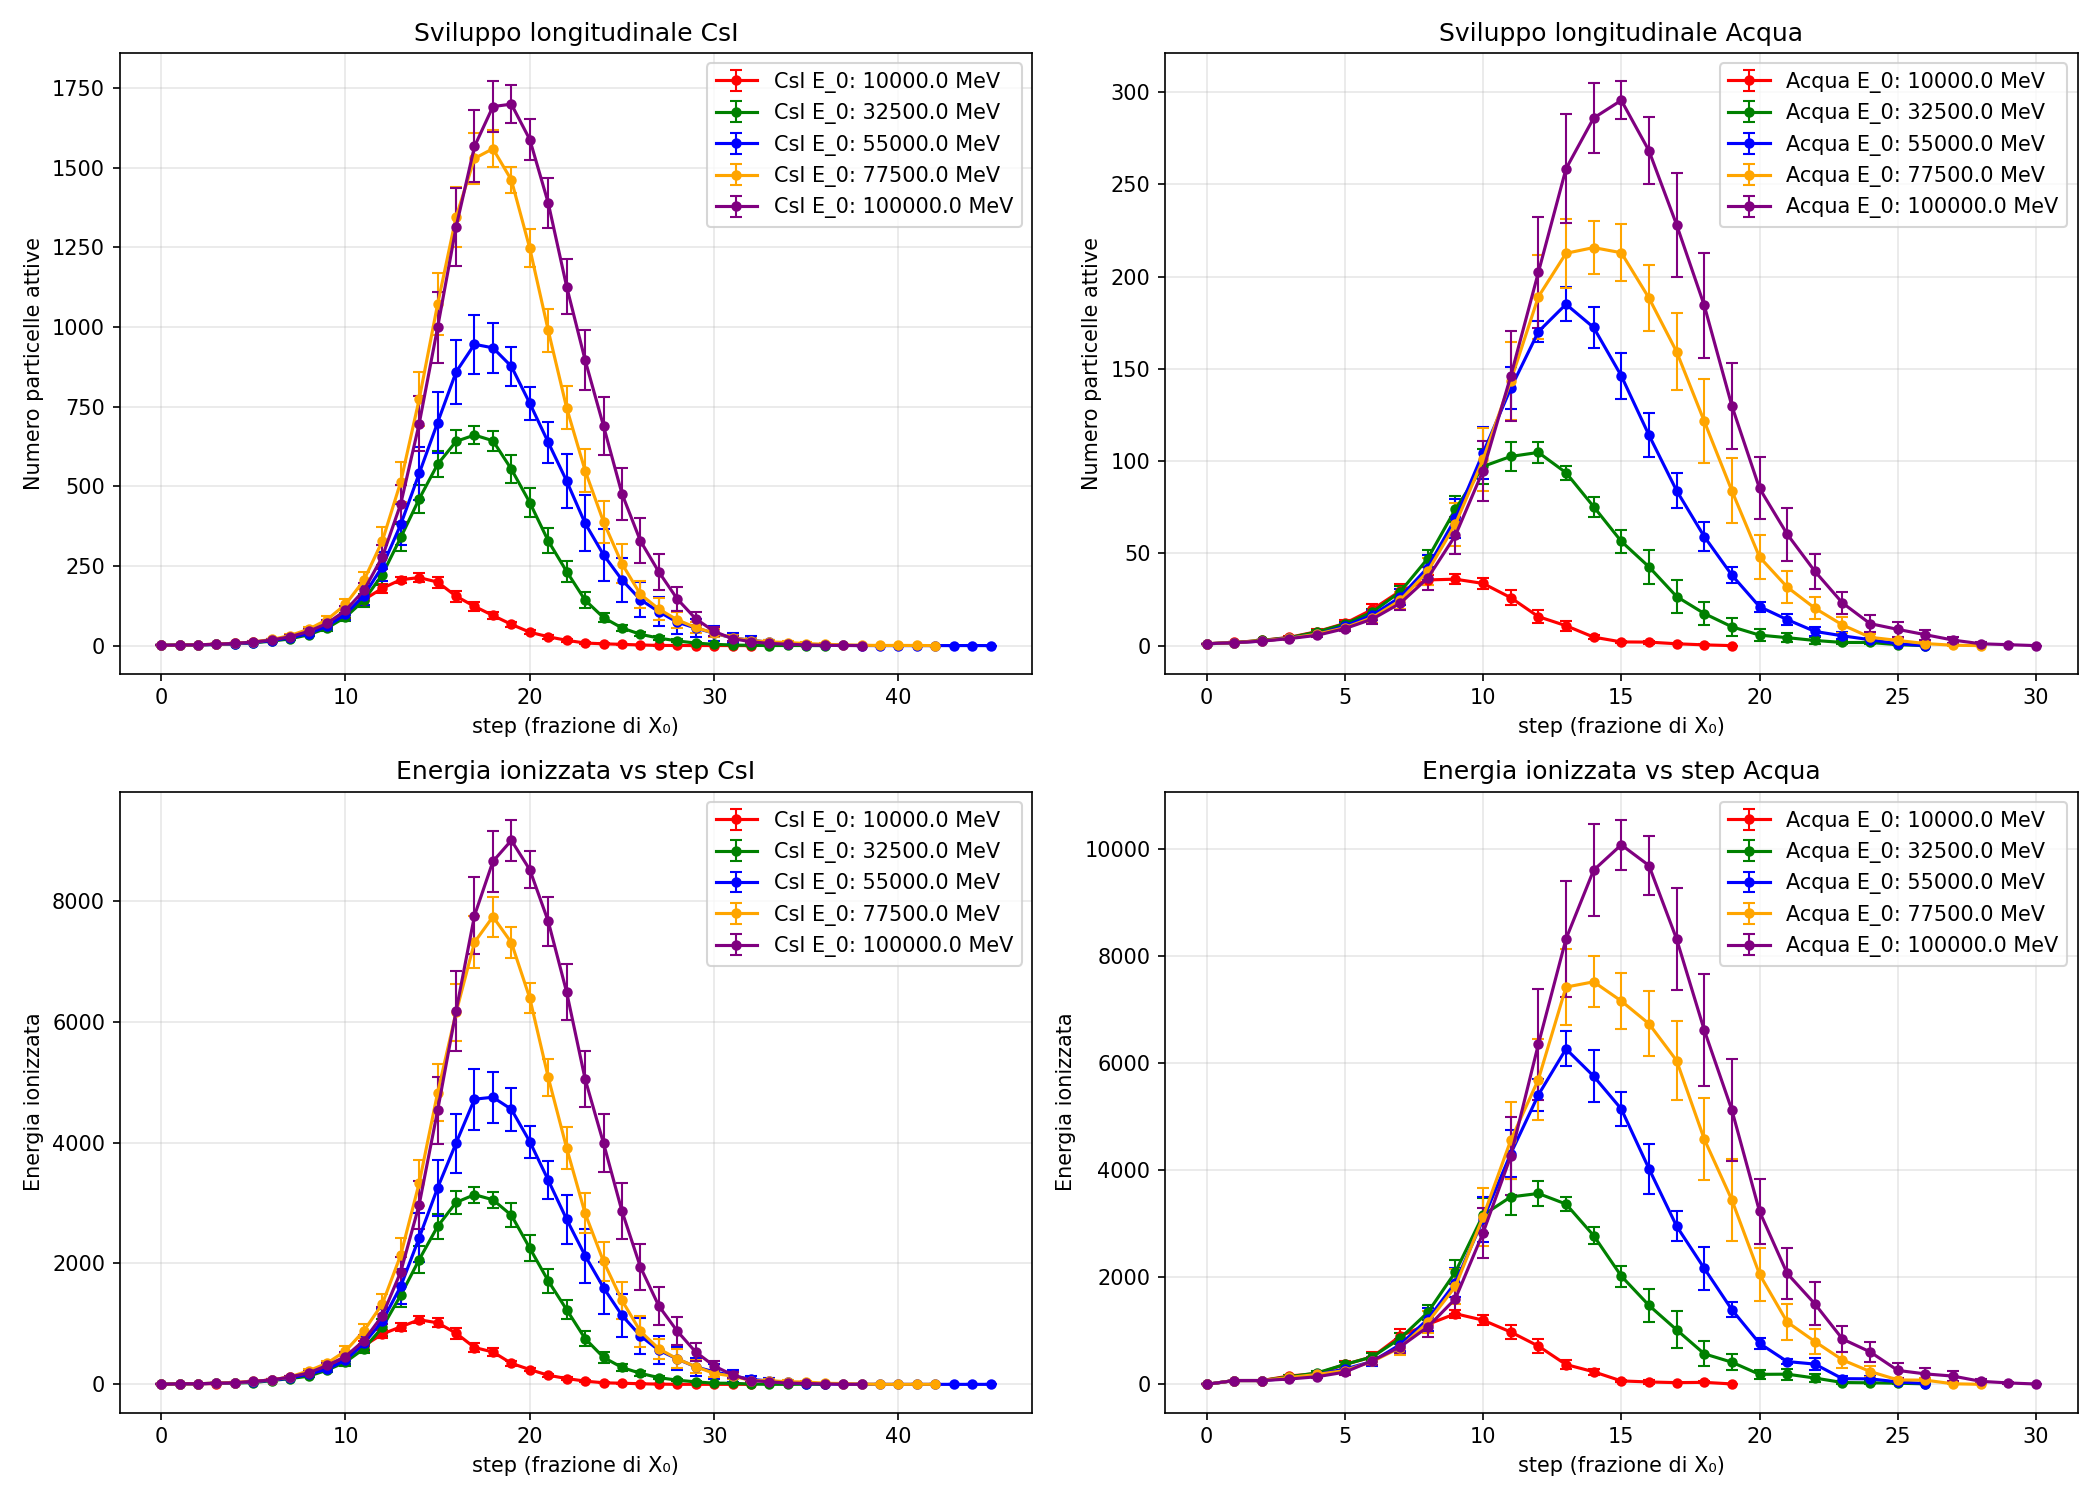
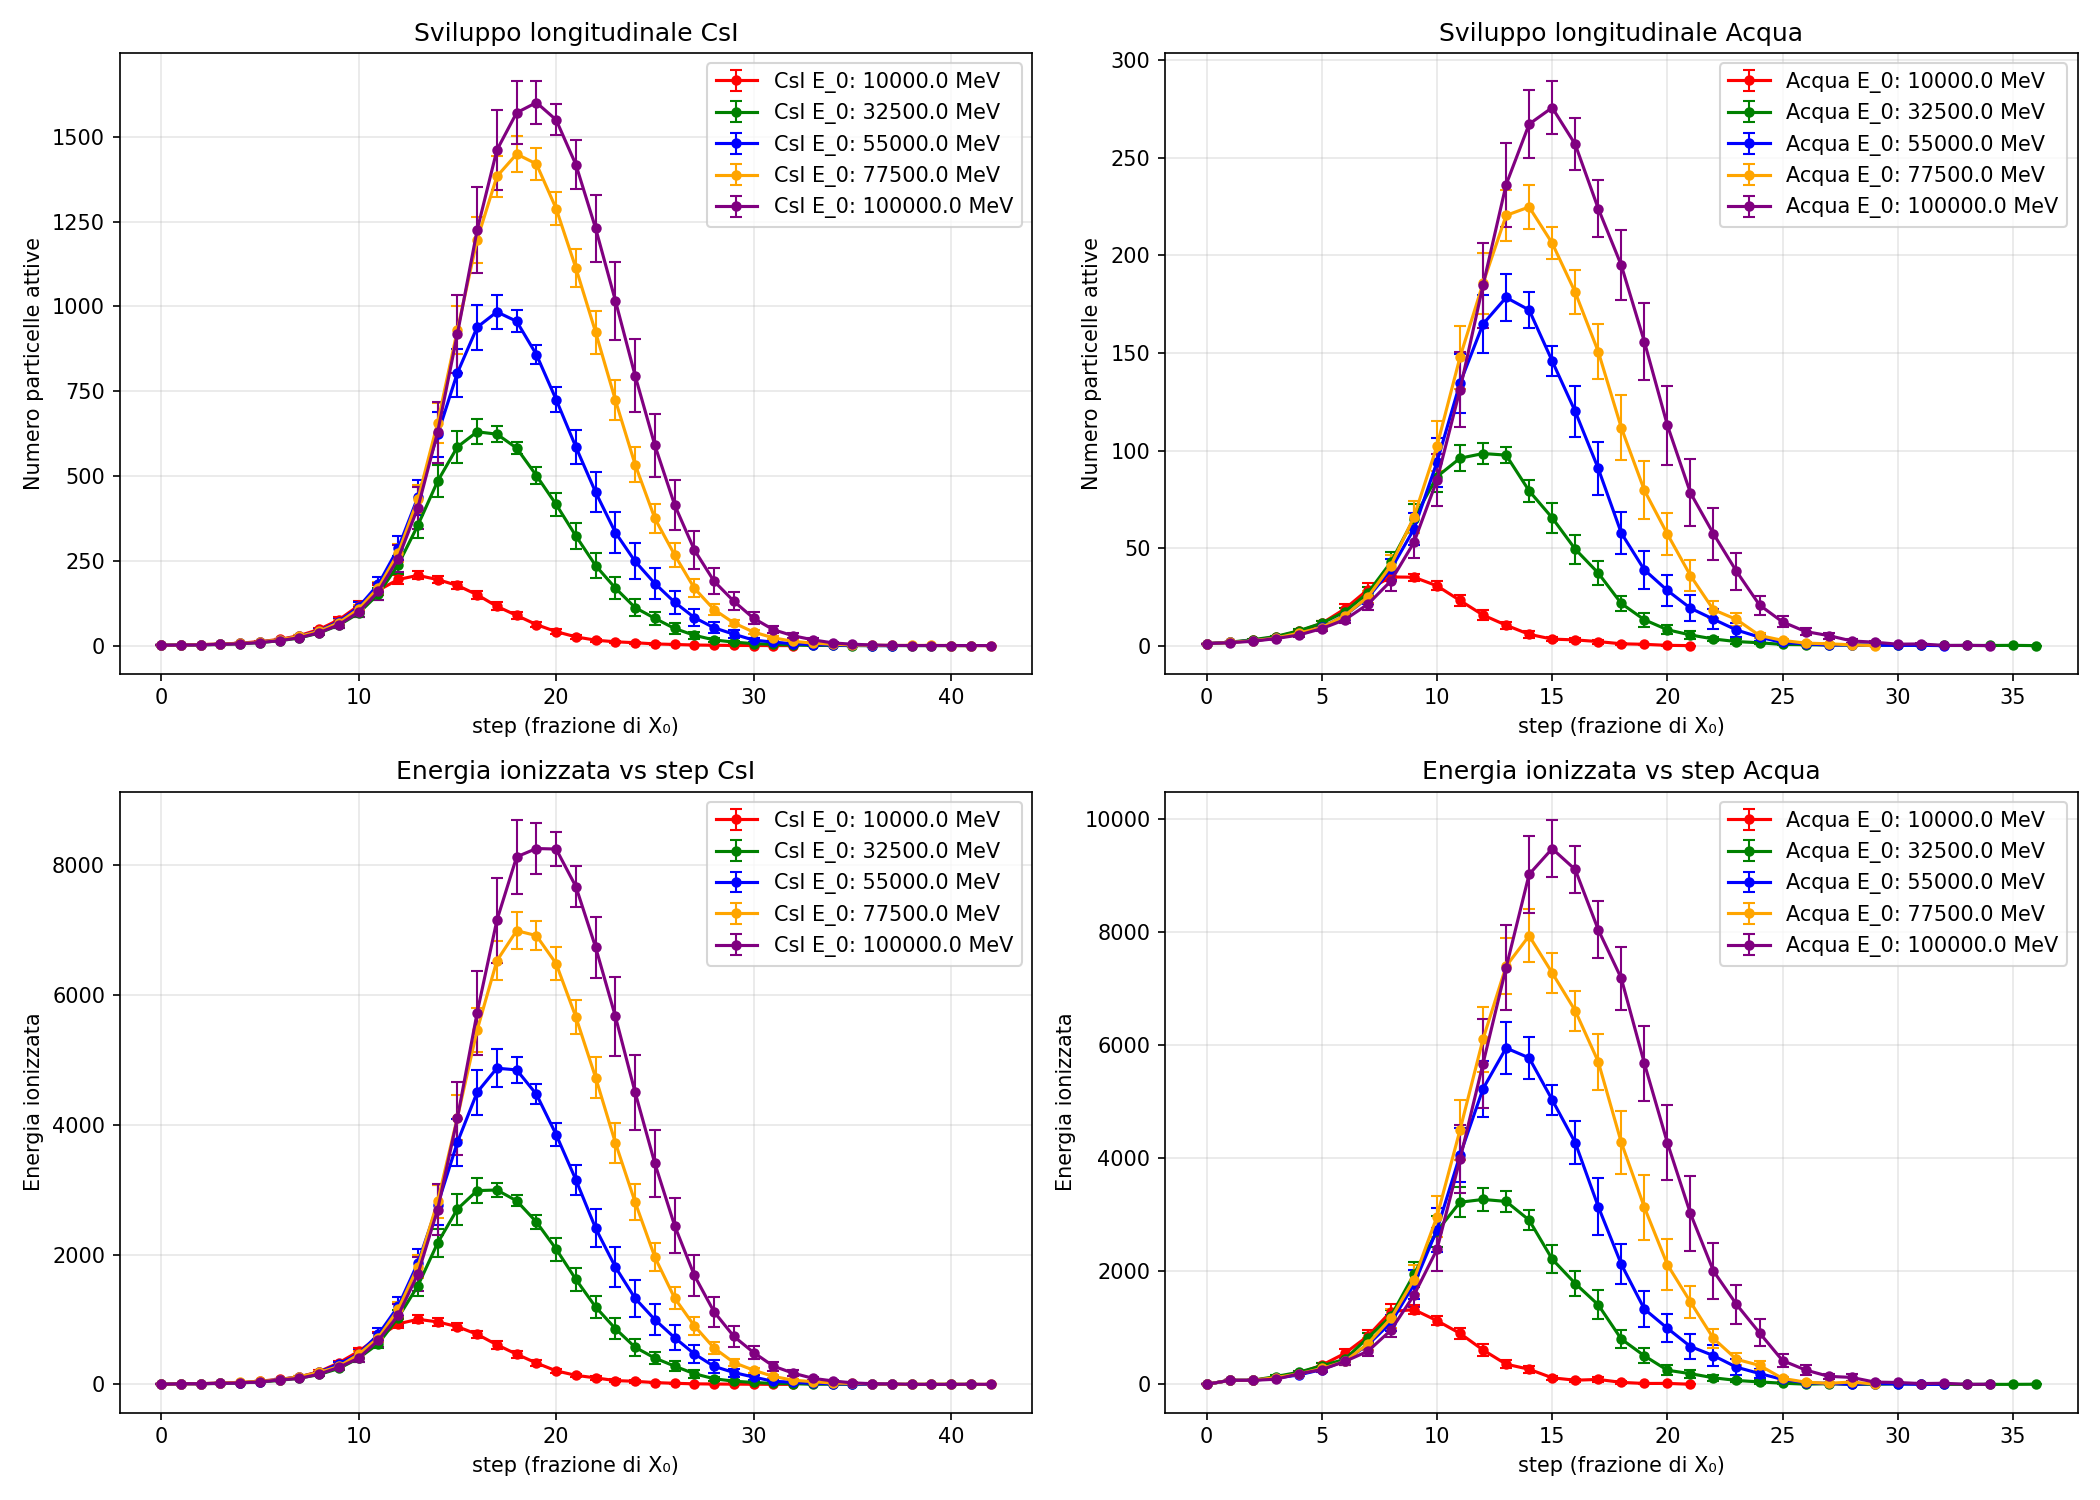
Ottimizzazione finale codice

diff --git a/simulazione.py b/simulazione.py
@@ -50,22 +50,7 @@ class Simulazione:
 		else:
 			self.ec = materiale[0]
 			self.ei= materiale[1]
-
-	def pbrem(self,step):
-		"""
-		
-		Resituisce un booleano True/False in base alla probabilità che un elettrone faccia Bremsstrahlung ad un certo step di simulazione.
-		"""
-		return np.random.random() < 1 - np.exp(-step)
-		   
-	def pfoton(self,step):
-		"""
-		
-		Resituisce un booleano True/False in base alla probabilità che un fotone produca una coppia ad un certo step di simulazione.
-		"""
-		
-		return np.random.random() < 1 - np.exp(-step*(7/9))
-		
+			
 	def	n_energic_partc(self):
 		"""
 		
@@ -103,7 +88,8 @@ class Simulazione:
 		self.tot_ion = self.in_tot_ion 
 		df_simulazione = pd.DataFrame([{'N * passo': 0, 'Energia ionizzata totale': self.tot_ion, 'Energia ionizzata nello step': 0, 'Numero di particelle attive': 1}])
 		nstep=0
-		
+		pbrem = 1 - np.exp(-step)
+		pfoton = 1 - np.exp(-step*(7/9))
 		while self.n_energic_partc()>0:
 			
 			# Energia ionizzata per step
@@ -116,8 +102,8 @@ class Simulazione:
 			self.elettroni[mask_attivi]-= self.ei * step
 			step_ion=self.ei*self.elettroni[mask_attivi].size*step
 			fotoni_nuovi=np.array([])
-			probability=np.array([self.pbrem(step) for _ in self.elettroni])
-			mask_brem= np.logical_and(self.elettroni > self.ec, probability)
+			e_numeri_casuali = np.random.random(self.elettroni.shape)
+			mask_brem= np.logical_and(self.elettroni > self.ec, e_numeri_casuali < pbrem)
 			if np.any(mask_brem):
 				self.elettroni[mask_brem]=self.elettroni[mask_brem]/2
 				fotoni_nuovi=self.elettroni[mask_brem]
@@ -132,8 +118,8 @@ class Simulazione:
 			#Blocco fotoni
 			elettroni_nuovi=np.array([])
 			if self.fotoni.size>0:
-				probability=np.array([self.pfoton(step) for _ in self.fotoni])
-				maskf_produzione = np.logical_and(self.fotoni> 1.022, probability)
+				f_numeri_casuali = np.random.random(self.fotoni.shape)
+				maskf_produzione = np.logical_and(self.fotoni> 1.022, f_numeri_casuali < pfoton)
 				maskf_inattivi = self.fotoni<= 1.022 # 2 m_e c^2 in MeV
 				maskf_rimanenti= ~maskf_inattivi & ~maskf_produzione
 				self.fotoni[maskf_produzione]=self.fotoni[maskf_produzione]/2
@@ -149,10 +135,8 @@ class Simulazione:
 			
 			# Aggiunta particelle nuove
 			if(elettroni_nuovi.size>0):
-				#self.totp+=2*elettroni_nuovi.size
 				self.elettroni=np.concatenate([self.elettroni, elettroni_nuovi, elettroni_nuovi])
 			if(fotoni_nuovi.size>0):
-				#self.totp+=fotoni_nuovi.size
 				self.fotoni=np.concatenate([self.fotoni, fotoni_nuovi])
 			nstep+=1
 			nuova_riga = pd.DataFrame([{'N * passo': nstep,'Energia ionizzata totale': self.tot_ion, 'Energia ionizzata nello step': step_ion, 'Numero di particelle attive': self.n_energic_partc()}])
